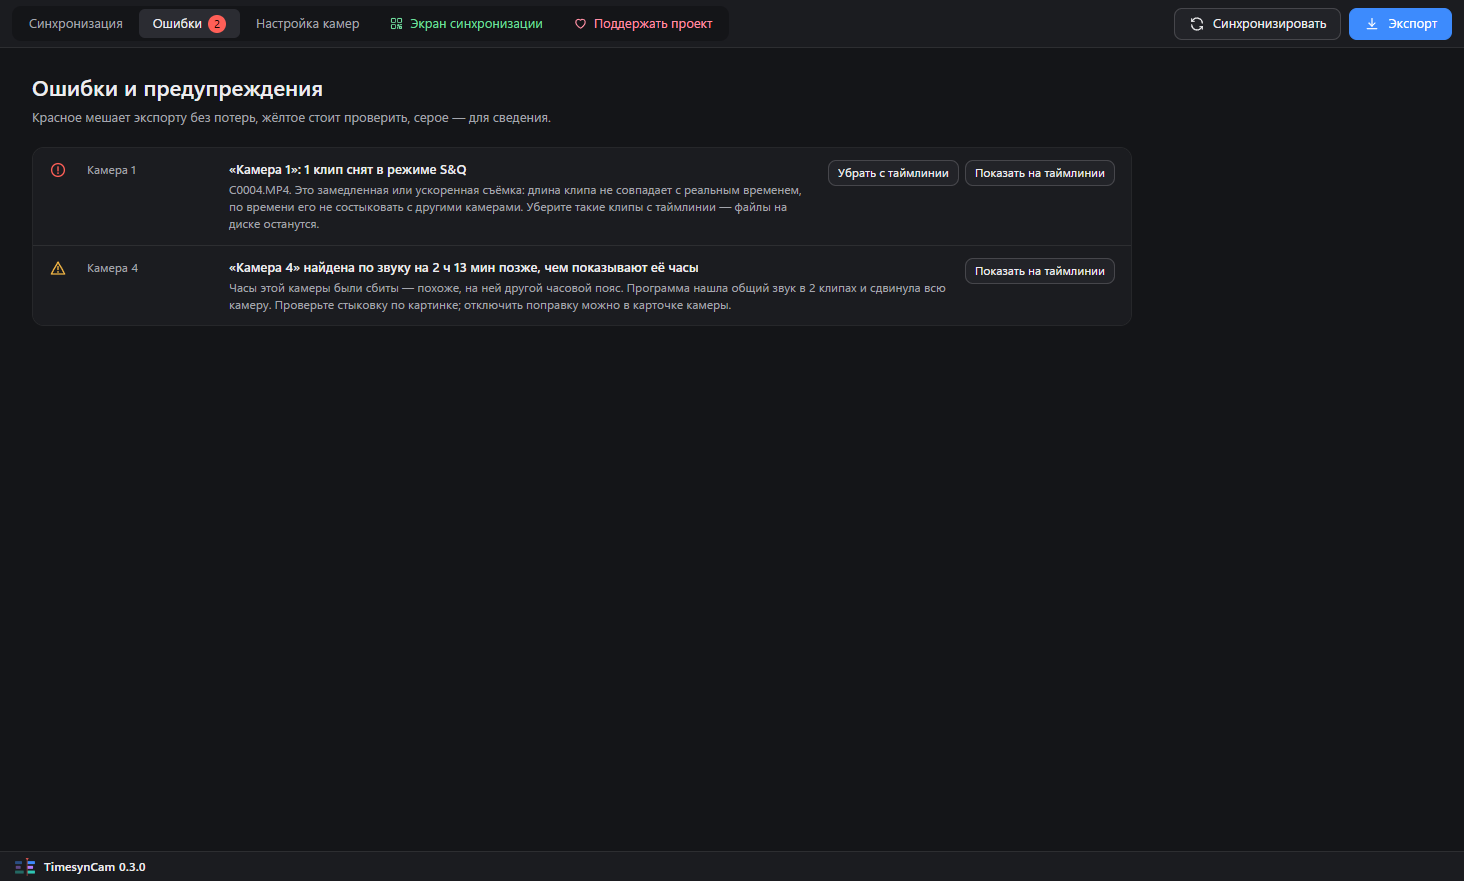
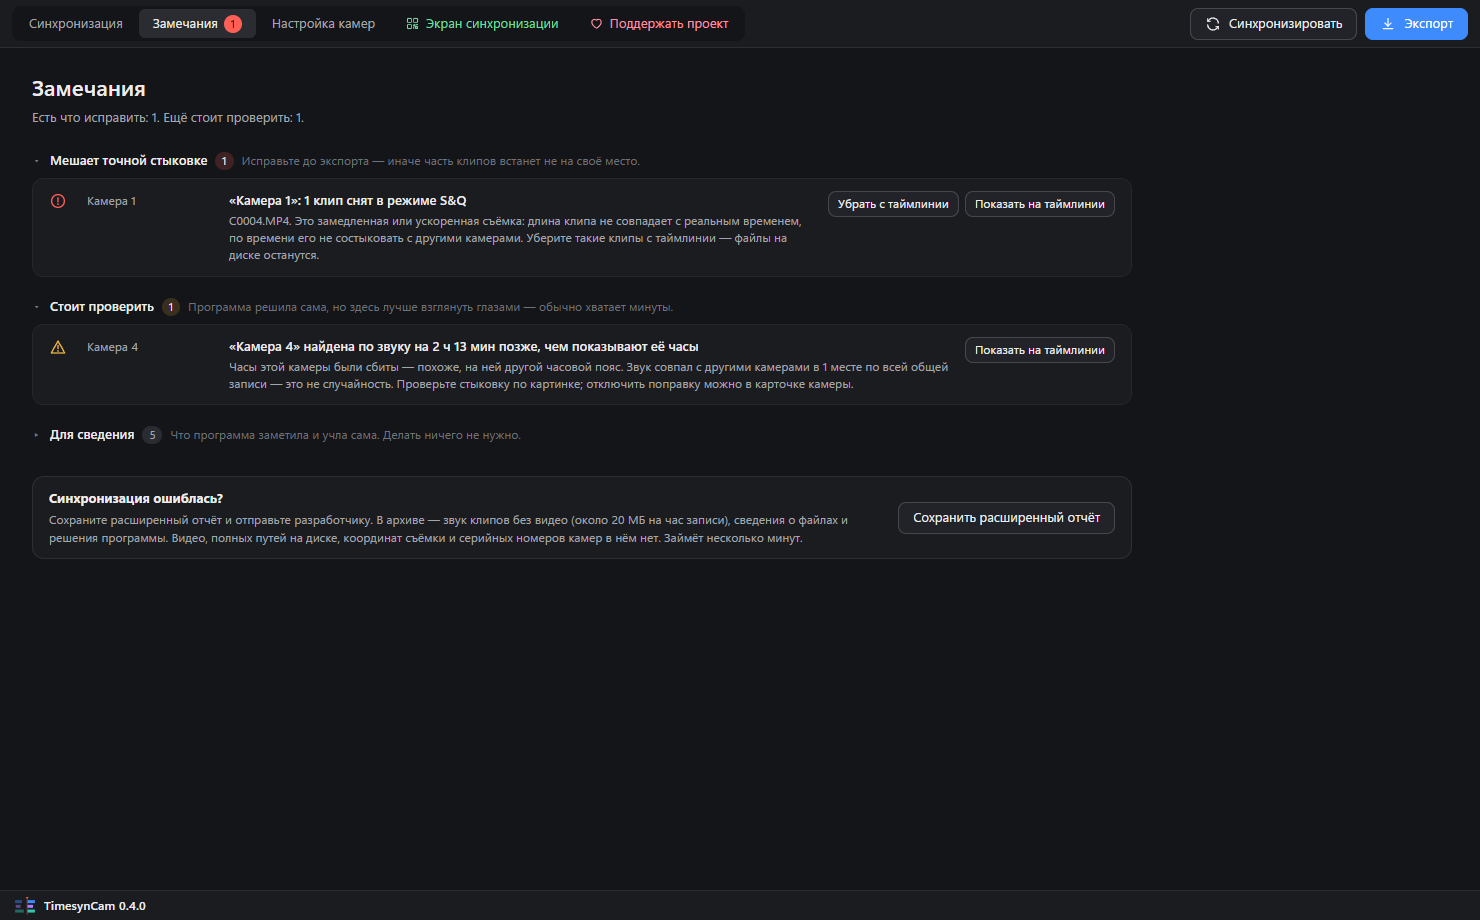
README: новые снимки окна 0.4.0
Снимки сделаны на синтетической демо-сцене: главное окно, меню синхронизации,
замечания, волна звука, контрольный кадр.

Попутно: склонение «в 1 месте» и «2 клипа» в замечаниях; для снимков —
прокрутка колёсиком (SYNC_WHEEL) и масштаб таймлинии после сверки по экрану.

diff --git a/src/core/align.ts b/src/core/align.ts
@@ -1028,7 +1028,7 @@ export async function alignByAudio(cameras: Camera[], coarse: SyncResult, audio:
       cameraId: p.cameraId,
       clipId: [...e.slips.keys()][0],
       title: `«${nameOf(p.cameraId)}»: тайм-код сбивался после пауз — до ${most < 1 ? `${Math.round(most * 1000)} мс` : `${most.toFixed(1).replace('.', ',')} с`}`,
-      details: `${e.slips.size} ${e.slips.size === 1 ? 'клип' : 'клипов'} после сбоя поставлены по звуку: каждый клип найден отдельно, и подряд идущие клипы согласно показали сдвиг. Так бывает, когда камеру выключали — при включении она пересчитывает тайм-код по часам.`,
+      details: `${pluralRu(e.slips.size, 'клип', 'клипа', 'клипов')} после сбоя поставлены по звуку: каждый клип найден отдельно, и подряд идущие клипы согласно показали сдвиг. Так бывает, когда камеру выключали — при включении она пересчитывает тайм-код по часам.`,
       actions: [{ kind: 'show-clip', clipId: [...e.slips.keys()][0] }],
     }));
   }
@@ -1210,7 +1210,7 @@ export async function alignByAudio(cameras: Camera[], coarse: SyncResult, audio:
         severity: 'warning',
         cameraId: cam.id,
         title: `«${cam.name}» найдена по звуку на ${formatDurationHuman(Math.abs(r.correction))} ${r.correction > 0 ? 'позже' : 'раньше'}, чем показывают её часы`,
-        details: `Часы этой камеры были сбиты${tz ? ' — похоже, на ней другой часовой пояс' : ''}. Звук совпал с другими камерами в ${confirmed} местах по всей общей записи — это не случайность. Проверьте стыковку по картинке; отключить поправку можно в карточке камеры.`,
+        details: `Часы этой камеры были сбиты${tz ? ' — похоже, на ней другой часовой пояс' : ''}. Звук совпал с другими камерами в ${pluralRu(confirmed, 'месте', 'местах', 'местах')} по всей общей записи — это не случайность. Проверьте стыковку по картинке; отключить поправку можно в карточке камеры.`,
         actions,
       }));
     } else if ((r.status === 'applied' || r.status === 'confirmed') && own.some((p) => p.trust === 'none')) {
@@ -1218,7 +1218,7 @@ export async function alignByAudio(cameras: Camera[], coarse: SyncResult, audio:
         severity: 'info',
         cameraId: cam.id,
         title: `«${cam.name}» встала по звуку`,
-        details: `Дате на устройстве программа не верит, поэтому место найдено только по звуку: совпадение подтверждено в ${confirmed} местах по всей общей записи.`,
+        details: `Дате на устройстве программа не верит, поэтому место найдено только по звуку: совпадение подтверждено в ${pluralRu(confirmed, 'месте', 'местах', 'местах')} по всей общей записи.`,
         actions,
       }));
     } else if ((r.status === 'applied' || r.status === 'confirmed') && r.correction !== null && Math.abs(r.correction) > 1.5 && !own.some((p) => p.trust === 'none' || p.trust === 'anchor')) {
@@ -1228,7 +1228,7 @@ export async function alignByAudio(cameras: Camera[], coarse: SyncResult, audio:
         severity: 'info',
         cameraId: cam.id,
         title: `Часы «${cam.name}» ${r.correction > 0 ? 'отстают' : 'спешат'} на ${formatDurationHuman(Math.abs(r.correction))} относительно остальных камер`,
-        details: `По звуку «${cam.name}» поставлена точно: совпадение подтверждено в ${confirmed} местах по всей общей записи. Расхождение — в часах самого устройства. Перед съёмкой выставляйте время на всех камерах и рекордерах по одним часам.`,
+        details: `По звуку «${cam.name}» поставлена точно: совпадение подтверждено в ${pluralRu(confirmed, 'месте', 'местах', 'местах')} по всей общей записи. Расхождение — в часах самого устройства. Перед съёмкой выставляйте время на всех камерах и рекордерах по одним часам.`,
         actions,
       }));
     } else if (r.status === 'no-match') {

diff --git a/src/main/main.ts b/src/main/main.ts
@@ -118,6 +118,16 @@ function createWindow(): void {
           win!.webContents.sendInputEvent({ type: 'mouseUp', x, y, button: 'left', clickCount: 1 });
           await new Promise((r) => setTimeout(r, Number(process.env.SYNC_CLICK_WAIT ?? 1500)));
         }
+        // Для снимков: прокрутка колёсиком в заданной точке окна («x,y,шаг»).
+        const wh = /^(\d+),(\d+),(-?\d+)(,alt)?$/.exec(process.env.SYNC_WHEEL ?? '');
+        if (wh) {
+          const x = Number(wh[1]);
+          const y = Number(wh[2]);
+          const modifiers: ('alt')[] = wh[4] ? ['alt'] : [];
+          win!.webContents.sendInputEvent({ type: 'mouseMove', x, y, modifiers });
+          win!.webContents.sendInputEvent({ type: 'mouseWheel', x, y, deltaX: 0, deltaY: Number(wh[3]), modifiers });
+          await new Promise((r) => setTimeout(r, 600));
+        }
         const img = await win!.webContents.capturePage();
         await writeFile(shot, img.toPNG());
         app.quit();

diff --git a/src/renderer/App.tsx b/src/renderer/App.tsx
@@ -339,7 +339,7 @@ export function App() {
         // Масштаб таймлинии для проверки: применяется после сверки по звуку.
         const apply = () => {
           const s = stateRef.current;
-          if (!s.sync || s.audioRun) return setTimeout(apply, 300);
+          if (!s.sync || s.audioRun || s.qrRun) return setTimeout(apply, 300);
           const tzSec = s.sync.displayTzOffsetMin * 60;
           const dayStart = Math.floor((s.sync.start + tzSec) / 86400) * 86400 - tzSec;
           const a = dayStart + Number(v[1]) * 3600 + Number(v[2]) * 60 + Number(v[3]);

diff --git a/README.md b/README.md
@@ -116,7 +116,7 @@ FFmpeg уже внутри, отдельно ставить ничего не н
 
 Самый точный режим — **«Контрольный кадр + тайм-код + звук»**. Каждая камера снимает экран синхронизации (вкладка «Настройка камер»): QR-код с точным временем, который меняется каждую секунду. Снимать можно до или после съёмки — время зашито в коде. На таймлинии — правая кнопка по клипу → «Выбрать контрольным кадром». Камеры встают по экрану с точностью до четверти кадра, и все их клипы следом — по тайм-коду: экран достаточно снять в одном клипе. Камеры без экрана и рекордер подтягиваются к ним по звуку.
 
-![Контрольный кадр: камеры с жёлтым флажком встали по экрану синхронизации](docs/images/control.png)
+![Контрольный кадр: камеры с флажком встали по экрану синхронизации](docs/images/control.png)
 
 Подробно — в [docs/how-it-works.md](docs/how-it-works.md).
 
